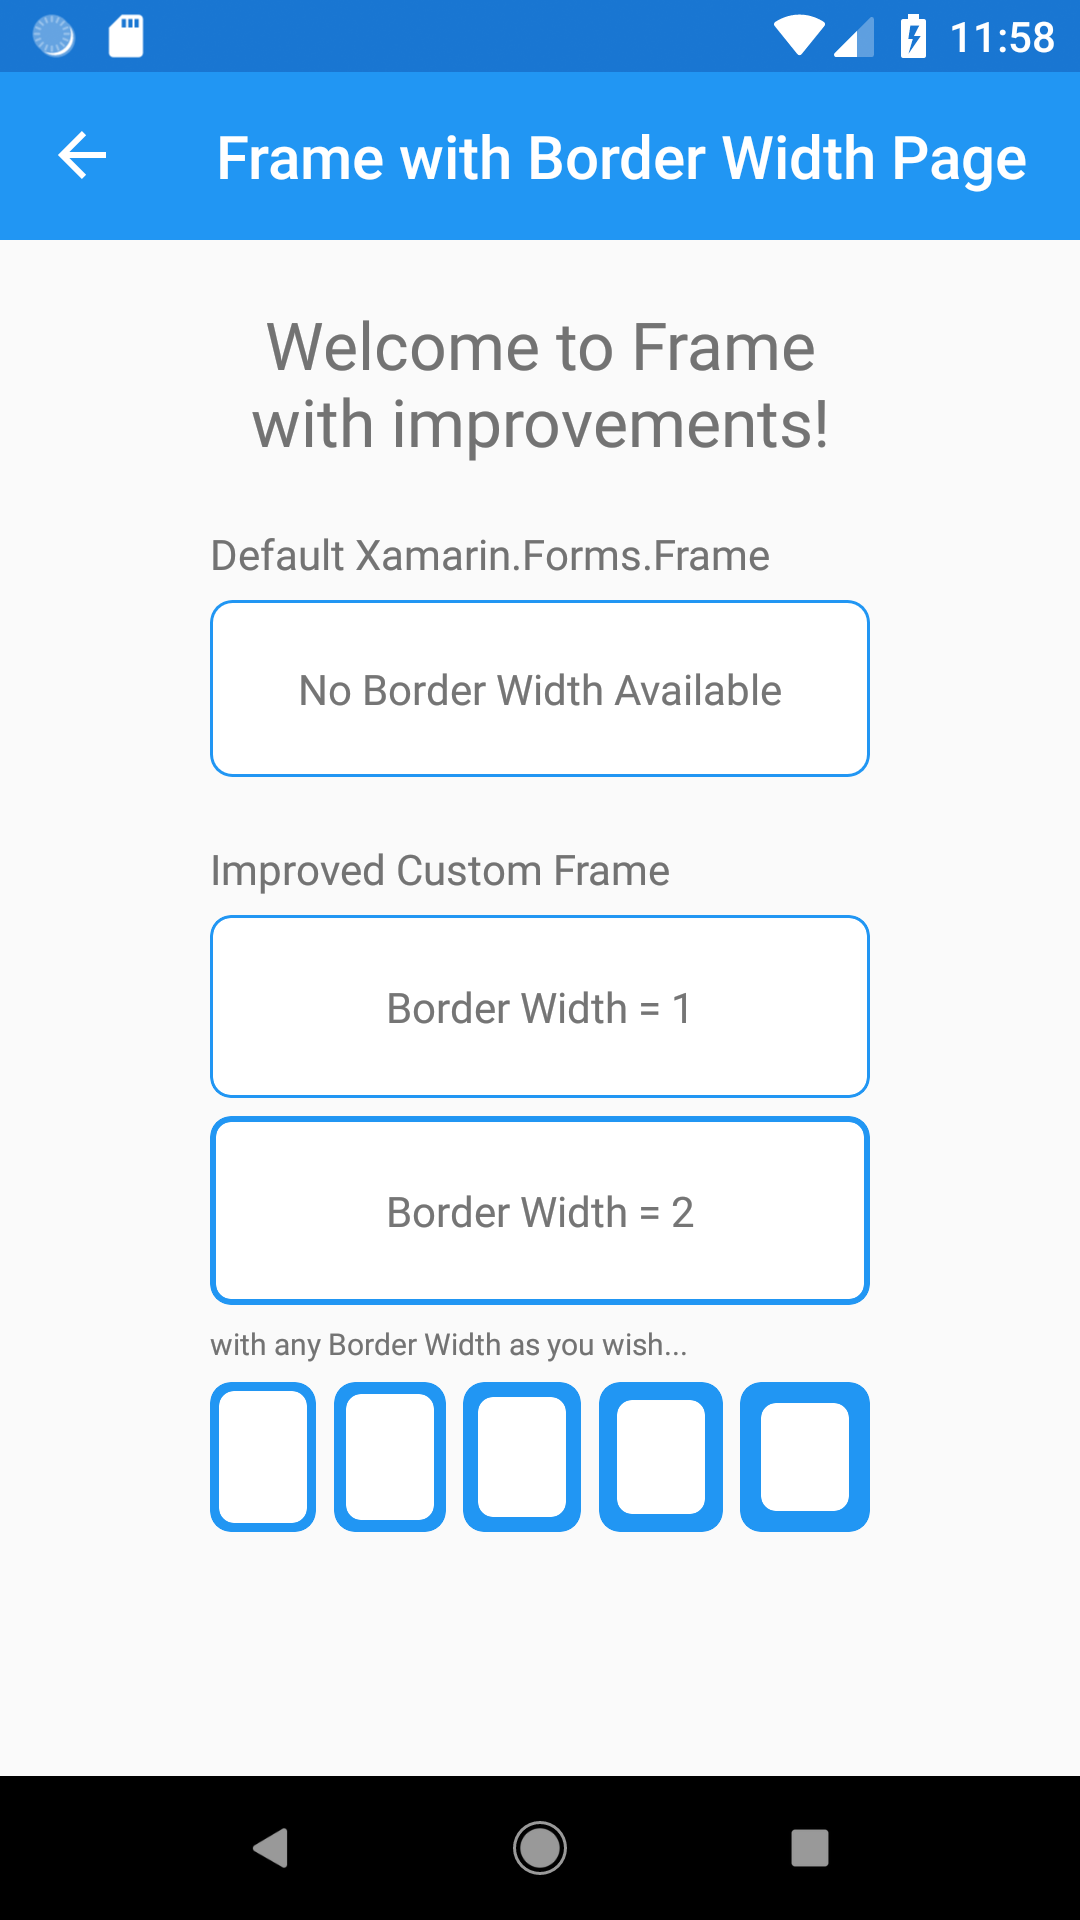
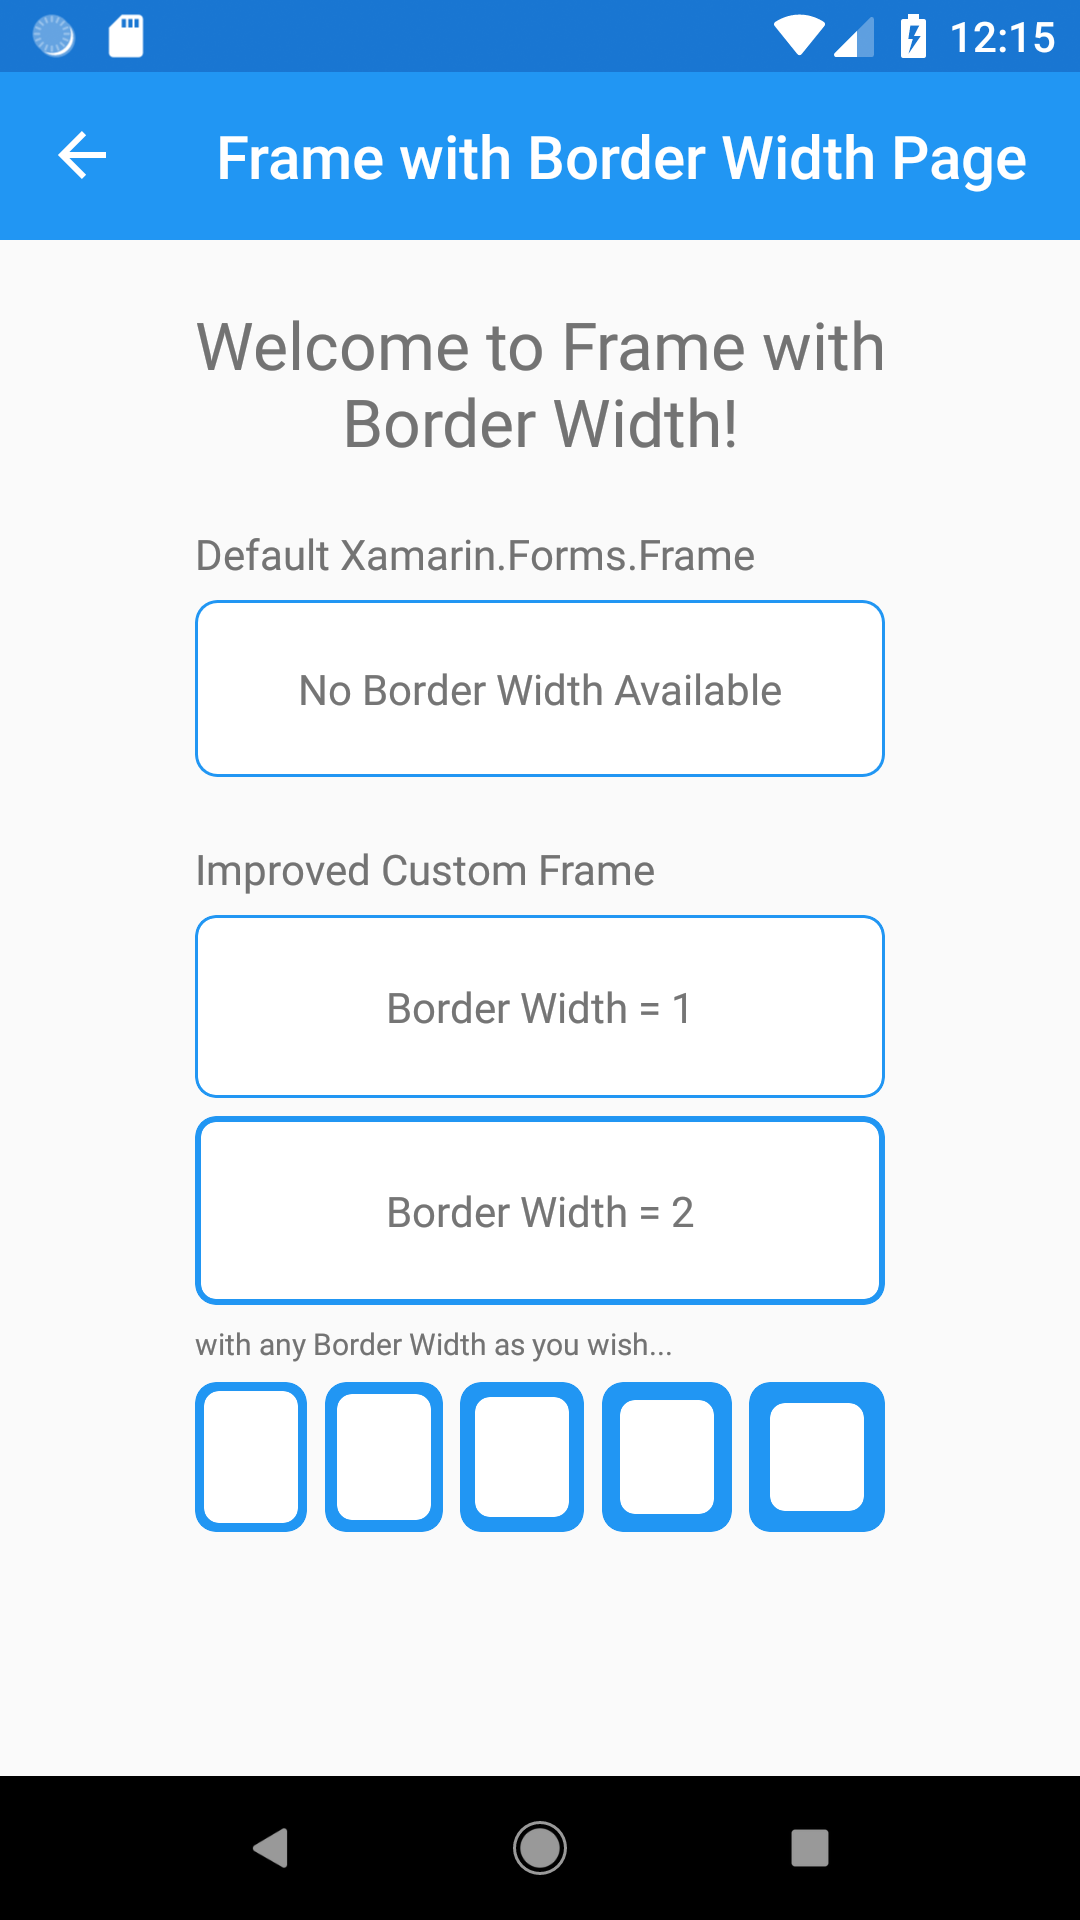
updated screenshots

diff --git a/XFHacks/XFHacks/XFHacks/FrameWithBorderWidth.xaml b/XFHacks/XFHacks/XFHacks/FrameWithBorderWidth.xaml
@@ -10,7 +10,7 @@
     <Grid RowSpacing="20" VerticalOptions="Start">
         <Grid.Padding>
             <OnPlatform x:TypeArguments="Thickness">
-                <On Platform="Android" Value="70,20,70,0" />
+                <On Platform="Android" Value="60,20,60,0" />
                 <On Platform="iOS" Value="55,20,55,0" />
                 <On Platform="UWP" Value="70,20,70,0" />
             </OnPlatform>
